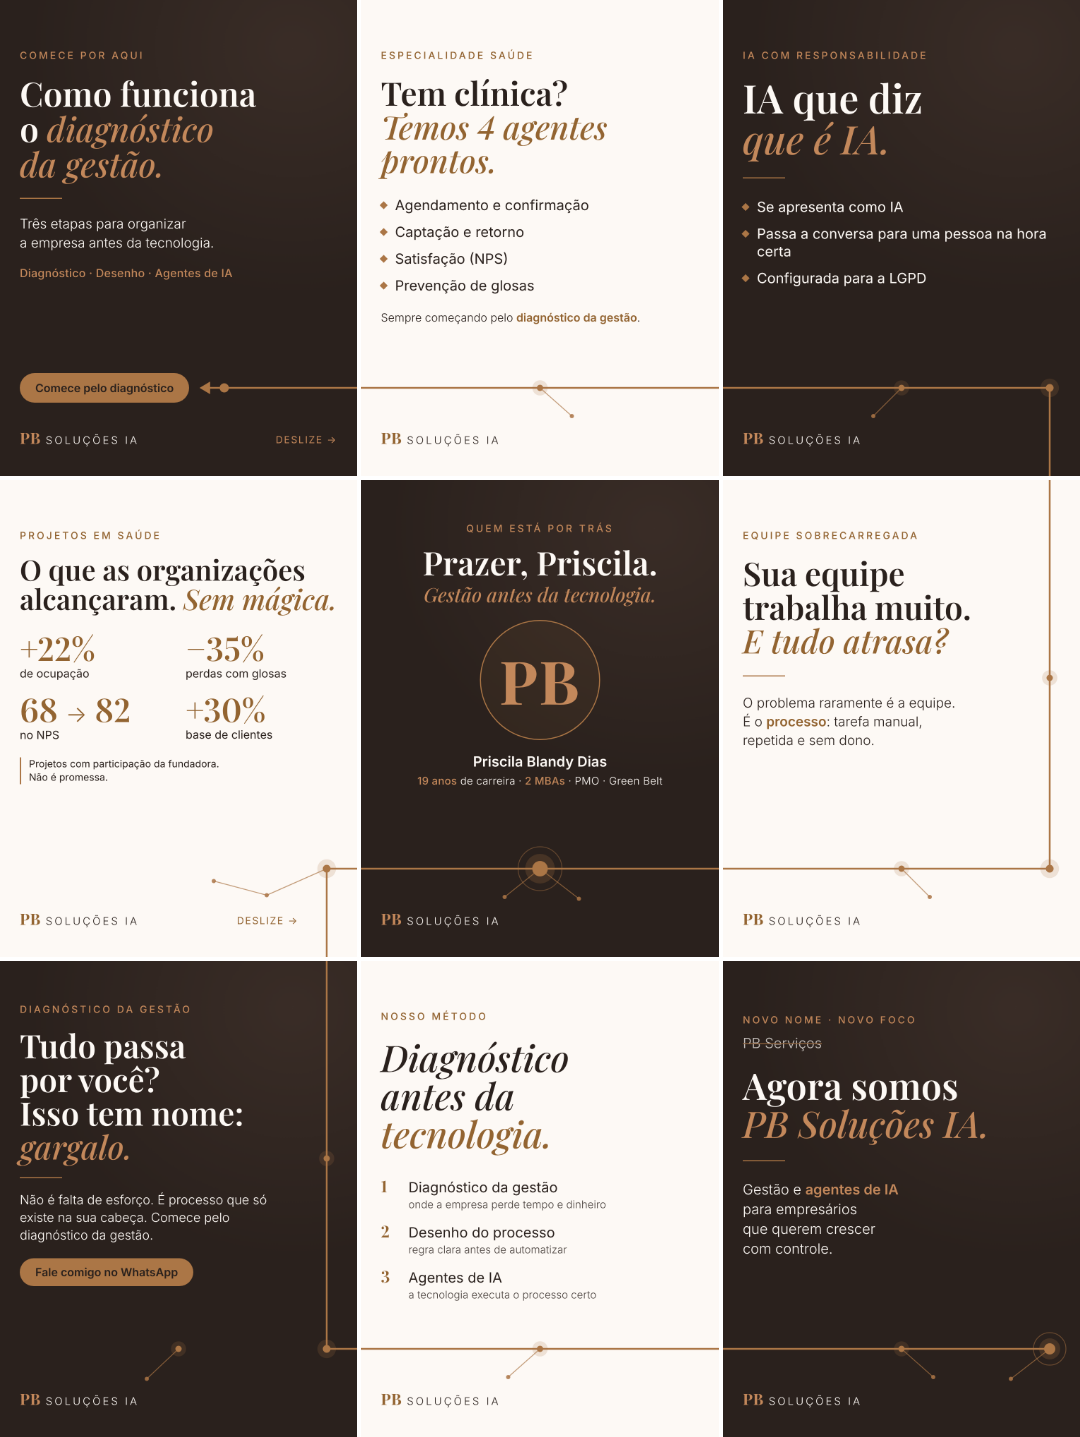
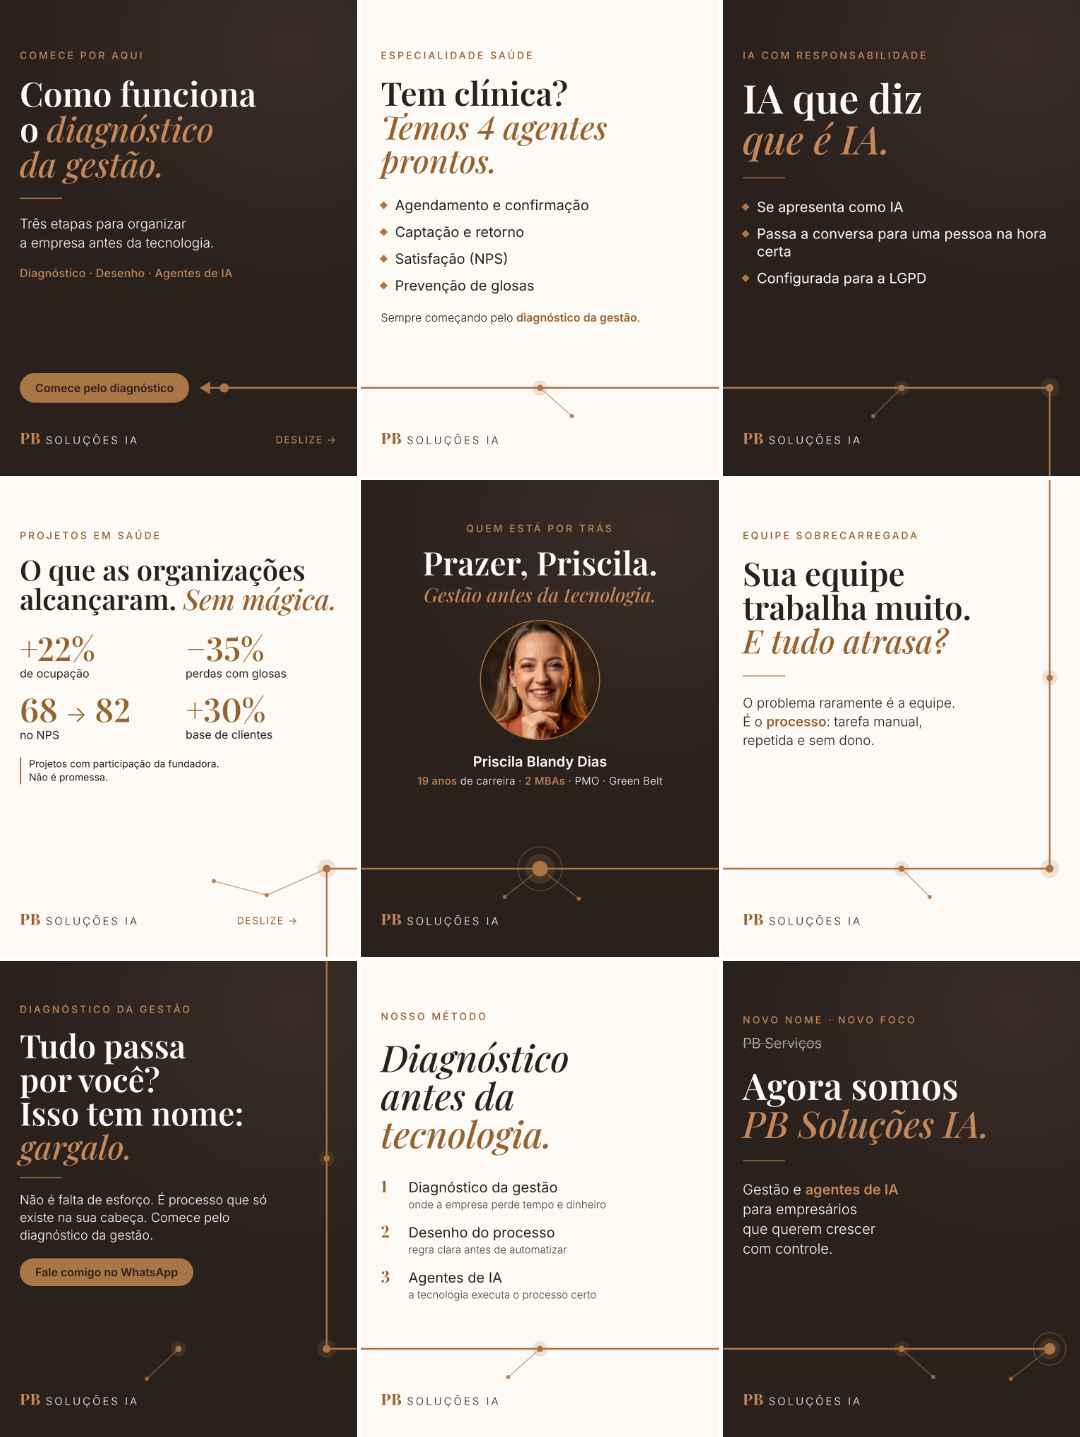
Foto real no post 5, @pbsolucoesia e primeira conversa (30-40 min, Meet)
- Post 5 com a foto da Priscila (recorte sem marca d'água)
- @pbsolucoesia em perfis, plano e cadastro
- 1ª conversa: 30 a 40 min por Google Meet nas legendas e no FAQ;
  gratuidade segue sem confirmação (não citada)

Claude-Session: https://claude.ai/code/session_01LoDkQVr5SMC612GAkfrzaB

Changed region(s): [[0.4583, 0.4287, 0.55, 0.5205]]

diff --git a/mockup/previa-perfil.html b/mockup/previa-perfil.html
@@ -81,7 +81,7 @@ dialog button{margin-top:10px;font-family:var(--body);font-weight:600;border-rad
       </div>
       <div class="cel" aria-label="Simulação da tela do perfil">
         <div class="notch"><i></i></div>
-        <div class="topo"><span>pbsolucoesia</span><small>✏ @ a definir</small></div>
+        <div class="topo"><span>pbsolucoesia</span><small>@ escolhido ✓</small></div>
         <div class="cab">
           <div class="av"><img src="perfil/avatar.jpg" alt="Foto de perfil: monograma PB Soluções IA"></div>
           <div class="stats"><div><b id="nposts">9</b>posts</div><div><b>—</b>seguidores</div><div><b>—</b>seguindo</div></div>
@@ -119,9 +119,8 @@ Especialidade em saúde | Priscila Blandy
       <div class="card">
         <div class="eyebrow">Antes de publicar</div>
         <ul class="lista pend">
-          <li>✏ Escolher o novo @ e conferir se está livre</li>
-          <li>✏ Foto profissional para o post 5 (hoje vai com o monograma PB)</li>
-          <li>✏ Confirmar se a 1ª conversa de diagnóstico é gratuita e quanto dura</li>
+          <li>✓ @pbsolucoesia escolhido · ✓ foto no post 5 · ✓ 1ª conversa: 30 a 40 min por Google Meet</li>
+          <li>✏ Confirmar se a 1ª conversa é gratuita (até lá, os textos não citam)</li>
           <li>Arquivar (não excluir) os posts antigos</li>
           <li>Legendas prontas em <code>redes/legendas-relancamento.md</code></li>
         </ul>

diff --git a/pecas/fonte/grade-painel.html b/pecas/fonte/grade-painel.html
@@ -120,7 +120,7 @@ ul.l li::before{content:"";flex:0 0 16px;height:16px;transform:translateY(-6px) 
   <!-- FOTO REAL: quando houver a foto da Priscila (boa luz, fundo simples), troque o <span>PB</span> abaixo por
        <img src="fotos/priscila.jpg" style="width:100%;height:100%;object-fit:cover;border-radius:50%">
        mantendo o círculo de 340 px (o fio não passa por ele). -->
-  <div class="foto"><span>PB</span></div>
+  <div class="foto"><img src="fotos/priscila.jpg" alt="Priscila Blandy Dias" style="width:100%;height:100%;object-fit:cover;border-radius:50%"></div>
   <div class="nome">Priscila Blandy Dias</div>
   <div class="cred"><b>19 anos</b> de carreira · <b>2 MBAs</b> · PMO · Green Belt</div></div>
   <div class="marca"><span class="pb">PB</span><span class="sol">Soluções IA</span></div>

diff --git a/redes/legendas-relancamento.md b/redes/legendas-relancamento.md
@@ -6,9 +6,9 @@
 > CTA único em todas as legendas: **"Fale comigo no WhatsApp (link na bio)"**.
 
 ## ✏ O que a Priscila precisa confirmar antes de publicar
-- [ ] ✏ **Primeira conversa:** é gratuita? Quanto tempo dura? Por qual plataforma (WhatsApp, Google Meet)? (`conhecimento/faq.md`, pergunta 4). Enquanto não houver resposta, os textos **não citam** duração, preço nem gratuidade. Onde cabe a informação, está marcado com ✏.
-- [ ] ✏ **Post 5:** existe uma foto real sua para o post? A legenda funciona com ou sem foto.
-- [ ] ✏ **Novo @ do Instagram:** a hashtag de marca usada aqui é `#pbsolucoesia`. Se o @ escolhido for outro, ajustar.
+- [x] **Primeira conversa:** 30 a 40 min, Google Meet (confirmado). - [ ] ✏ Ainda falta: é gratuita? Até confirmar, os textos **não citam** preço nem gratuidade.
+- [x] **Post 5:** foto real recebida e aplicada.
+- [x] **Novo @ do Instagram:** `@pbsolucoesia` (confirmado).
 - [ ] ✏ **LinkedIn 01/12:** confirmar que você realmente faz a pergunta das férias (aviso que já estava em `redes/legendas-gargalo.md`).
 - [ ] ✏ **Página da empresa no LinkedIn (26/11, 03/12, 10/12):** os textos estão em primeira pessoa e assinados por você. Se preferir a voz da empresa ("nós"), me avise que eu adapto.
 
@@ -134,7 +134,7 @@ Quer descobrir onde está o tempo perdido da sua equipe? Fale comigo no WhatsApp
 ---
 
 ## Post 5 · Qua 02/12 · "Prazer, Priscila. Gestão antes da tecnologia." · Pessoa · escuro (nó central)
-> **Novo.** ✏ Ideal com foto real da Priscila.
+> **Novo.** Com a foto real da Priscila.
 
 ```
 Prazer, eu sou a Priscila Blandy Dias, fundadora da PB Soluções IA.
@@ -260,7 +260,7 @@ Quer saber qual agente faz sentido para a sua clínica? Fale comigo no WhatsApp 
 | 3 | **2. Desenho.** Arrumar o processo antes de qualquer ferramenta: quem faz, quando faz e o que vira regra escrita. |
 | 4 | **3. Agentes de IA.** Só então a tecnologia entra para trabalhar, nas tarefas que o diagnóstico mostrou que valem a pena. |
 | 5 | Por que nessa ordem? Porque IA em cima de processo desorganizado só acelera o problema. |
-| 6 · CTA | **O fio está completo. Agora é a sua vez.** Fale comigo no WhatsApp (link na bio). ✏ [se confirmado: "A primeira conversa é gratuita e dura X minutos."] |
+| 6 · CTA | **O fio está completo. Agora é a sua vez.** Fale comigo no WhatsApp (link na bio). A primeira conversa dura de 30 a 40 minutos, por Google Meet. |
 
 ### Legenda
 ```
@@ -276,11 +276,13 @@ Serve para empresários de qualquer segmento. E, para clínicas e casas de saúd
 
 Você não precisa saber nada de IA para começar. Precisa só contar como a sua empresa funciona hoje.
 
+A primeira conversa dura de 30 a 40 minutos, por Google Meet.
+
 Quer dar o primeiro passo? Fale comigo no WhatsApp (link na bio).
 
 #gestaoempresarial #diagnostico #processos #inteligenciaartificial #pbsolucoesia
 ```
-> ✏ Se a Priscila confirmar a primeira conversa, inserir antes do CTA: "A primeira conversa é [gratuita], dura [X minutos] e acontece pelo [plataforma]."
+> ✅ Primeira conversa confirmada pela Priscila (20/11/2026): 30 a 40 min, Google Meet. ✏ Gratuidade não confirmada: não citar.
 
 **Gancho alternativo:** "Não sabe por onde começar com IA? Comece por aqui."
 
@@ -418,13 +420,15 @@ O diagnóstico da gestão da PB Soluções IA tem 3 etapas:
 
 Você não precisa entender de IA para começar. Precisa só contar como a sua empresa funciona hoje.
 
+A primeira conversa dura de 30 a 40 minutos, por Google Meet.
+
 Quer dar o primeiro passo? Fale comigo no WhatsApp (link no perfil).
 
 Priscila Blandy Dias, fundadora da PB Soluções IA
 
 #gestao #processos #inteligenciaartificial
 ```
-> ✏ Se a Priscila confirmar a primeira conversa, inserir antes do CTA: "A primeira conversa é [gratuita], dura [X minutos] e acontece pelo [plataforma]."
+> ✅ Primeira conversa confirmada pela Priscila (20/11/2026): 30 a 40 min, Google Meet. ✏ Gratuidade não confirmada: não citar.
 
 ---
 

diff --git a/conhecimento/empresa.md b/conhecimento/empresa.md
@@ -4,11 +4,11 @@
 - **Fundadora:** Priscila Blandy Dias
 - **Base:** Rio de Janeiro, Brasil. Atendimento online.
 - **Site:** ✏ PREENCHER (novo domínio da PB Soluções IA; o antigo era pbservicos.com.br)
-- **Instagram:** ✏ PREENCHER (novo @; o atual @pbservicosoficial está em reformulação)
+- **Instagram:** @pbsolucoesia (novo; o antigo @pbservicosoficial está em reformulação)
 - **LinkedIn da empresa:** linkedin.com/company/pb-servicos (em reformulação)
 - **LinkedIn:** linkedin.com/in/priscilablandy
 - **WhatsApp comercial (link da bio e CTAs):** https://wa.me/5532991337984
-- **Link para agendar conversa:** ✏ PREENCHER (ex.: Google Calendar, página de agendamento)
+- **Primeira conversa:** diagnóstico da gestão, 30 a 40 min, por Google Meet (agenda "falecompb"). ✏ Link público de agendamento: PREENCHER
 - **Horário de atendimento humano:** ✏ PREENCHER (ex.: seg a sex, 9h às 18h, horário de Brasília)
 
 ## Credenciais da fundadora

diff --git a/conhecimento/faq.md b/conhecimento/faq.md
@@ -12,7 +12,7 @@
 ✅ "Cada projeto é desenhado depois de uma conversa de diagnóstico. A Priscila passa os valores pessoalmente." → escalar com o motivo `preco` (a menos que exista preço em `servicos.md`).
 
 **4. Como funciona a primeira conversa?**
-✏ PREENCHER (duração, se é gratuita, por qual plataforma: Google Meet?)
+✅ É uma conversa de diagnóstico da gestão de 30 a 40 minutos, por Google Meet, agendada com a Priscila. ✏ Gratuidade: não confirmada (não informar).
 
 **5. Vocês têm experiência no meu setor?**
 ✅ Citar os cases de `empresa.md` que forem relevantes. Se o setor não aparecer nos cases: "Nossa metodologia se aplica a vários setores; a Priscila pode avaliar o seu caso na conversa de diagnóstico."

diff --git a/redes/relancamento.md b/redes/relancamento.md
@@ -111,7 +111,7 @@ Xadrez: posts ímpares (1, 3, 5, 7, 9) = **escuro**; posts pares (2, 4, 6, 8) = 
 ## 4. Perfil do Instagram
 
 **Nome do perfil (em negrito, conta na busca):** `PB Soluções IA | Gestão + IA`
-**Nome de usuário (@):** ✏ escolher e conferir se está livre: `@pbsolucoesia` · `@pbsolucoes.ia` · `@pb.solucoesia`
+**Nome de usuário (@):** `@pbsolucoesia` ✅ (escolhido)
 
 **Bio escolhida** (versão melhorada da opção 1 de `redes/perfis.md`):
 ```

diff --git a/redes/perfis.md b/redes/perfis.md
@@ -4,7 +4,7 @@
 
 ## 📸 Instagram
 
-**Nome de usuário:** ✏ escolha e confira se está livre: `@pbsolucoesia` · `@pbsolucoes.ia` · `@pb.solucoesia`
+**Nome de usuário:** `@pbsolucoesia` ✅ (escolhido)
 (Trocar o @ é grátis: Editar perfil → Nome de usuário.)
 
 **Nome (aparece em negrito e conta na busca):** `PB Soluções IA | Gestão + IA`
